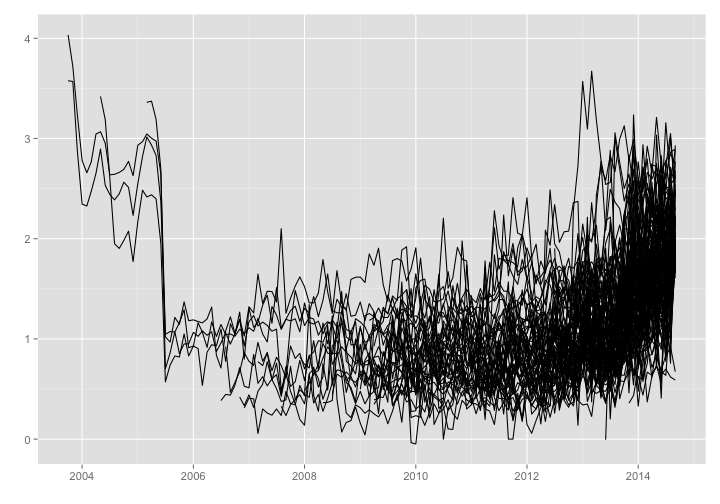
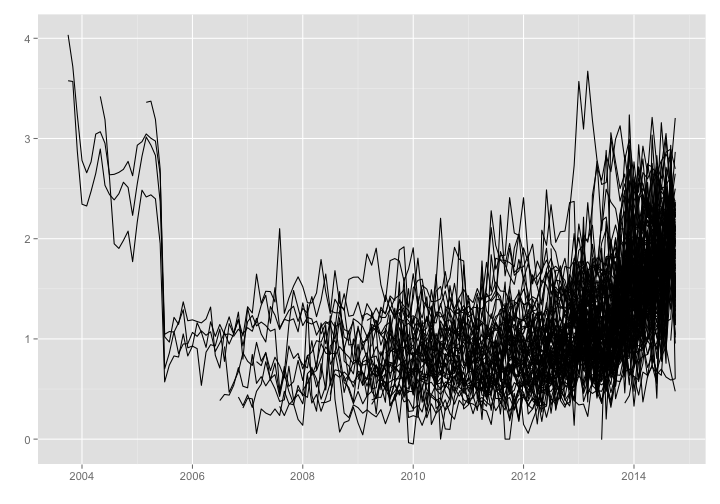
updated outliers workflow for today 2014-10-07

diff --git a/alerts/outliers_workflow.md b/alerts/outliers_workflow.md
@@ -1,6 +1,10 @@
 Workflow for detecting and exploring just outliers
 ========================================================
 
+### Date
+
+Compiled on 2014-10-07 18:13:34
+
 ### Setup
 
 > change directory to /data-quality/alerts/
@@ -54,21 +58,27 @@ Get data
 ```
 
 ```
-## Source: local data frame [138 x 6]
-## 
-##          id                      article   val          create_date
-## 1  11313611 10.1371/journal.pone.0051213 855.0 2014-09-27T08:08:33Z
-## 2  11313489 10.1371/journal.pone.0010894 783.0 2014-09-27T08:08:32Z
-## 3  11313569 10.1371/journal.pone.0046740 774.2 2014-09-27T08:08:32Z
-## 4  11347639 10.1371/journal.pone.0023786 586.0 2014-09-29T08:07:01Z
-## 5  11313595 10.1371/journal.pmed.1001493 570.7 2014-09-27T08:08:33Z
-## 6  11313573 10.1371/journal.pone.0090595 480.1 2014-09-27T08:08:32Z
-## 7  11313511 10.1371/journal.ppat.1003183 430.0 2014-09-27T08:08:32Z
-## 8  11313477 10.1371/journal.ppat.0020118 407.5 2014-09-27T08:08:32Z
-## 9  11313513 10.1371/journal.pbio.1000169 341.3 2014-09-27T08:08:32Z
-## 10 11313645 10.1371/journal.pone.0004276 333.0 2014-09-27T08:08:33Z
-## ..      ...                          ...   ...                  ...
+## Source: local data frame [143 x 6]
+##
+##          id                      article    val          create_date
+## 1  11313573 10.1371/journal.pone.0090595 1602.0 2014-09-27T08:08:32Z
+## 2  11313611 10.1371/journal.pone.0051213  855.0 2014-09-27T08:08:33Z
+## 3  11313489 10.1371/journal.pone.0010894  783.0 2014-09-27T08:08:32Z
+## 4  11347639 10.1371/journal.pone.0023786  586.0 2014-09-29T08:07:01Z
+## 5  11313547 10.1371/journal.pone.0068330  572.0 2014-09-27T08:08:32Z
+## 6  11313595 10.1371/journal.pmed.1001493  570.7 2014-09-27T08:08:33Z
+## 7  11313569 10.1371/journal.pone.0046740  498.0 2014-09-27T08:08:32Z
+## 8  11313511 10.1371/journal.ppat.1003183  430.0 2014-09-27T08:08:32Z
+## 9  11313477 10.1371/journal.ppat.0020118  407.5 2014-09-27T08:08:32Z
+## 10 11313513 10.1371/journal.pbio.1000169  341.3 2014-09-27T08:08:32Z
+## ..      ...                          ...    ...                  ...
 ## Variables not shown: source (chr), class (chr)
+```
+
+```r
+# remove bad data
+res <- res %>%
+  filter(!is.na(article))
 ```
 
 Extract top N articles, get DOIs
@@ -81,11 +91,11 @@ toinspect <- res[1:num_get,] %>% select(-class)
 ```
 
 ```
-##  [1] "10.1371/journal.pone.0051213" "10.1371/journal.pone.0010894"
-##  [3] "10.1371/journal.pone.0046740" "10.1371/journal.pone.0023786"
-##  [5] "10.1371/journal.pmed.1001493" "10.1371/journal.pone.0090595"
-##  [7] "10.1371/journal.ppat.1003183" "10.1371/journal.ppat.0020118"
-##  [9] "10.1371/journal.pbio.1000169" "10.1371/journal.pone.0004276"
+##  [1] "10.1371/journal.pone.0090595" "10.1371/journal.pone.0051213"
+##  [3] "10.1371/journal.pone.0010894" "10.1371/journal.pone.0023786"
+##  [5] "10.1371/journal.pone.0068330" "10.1371/journal.pmed.1001493"
+##  [7] "10.1371/journal.pone.0046740" "10.1371/journal.ppat.1003183"
+##  [9] "10.1371/journal.ppat.0020118" "10.1371/journal.pbio.1000169"
 ```
 
 Browse to an article
@@ -121,17 +131,32 @@ gg <- function(){
 }
 ```
 
+The distribution of html/pdf ratios
+
+
+```r
+res %>%
+  ggplot(aes(x=val)) + geom_histogram()
+```
+
+```
+## stat_bin: binwidth defaulted to range/30. Use 'binwidth = x' to adjust this.
+```
+
+![plot of chunk ratio_dist](figure/ratio_dist.png)
+
+
 Plot html and pdf views, just top 10
 
 
 ```r
 alldf %>%
   select(-year, -month, -id, -val, -source, -xml_views, -ratio) %>%
-  gather(metric, value, -article, -date, -create_date) %>% 
+  gather(metric, value, -article, -date, -create_date) %>%
   ggplot(aes(date, value, color=metric)) + gg()
 ```
 
-![plot of chunk unnamed-chunk-10](figure/unnamed-chunk-10.png) 
+![plot of chunk unnamed-chunk-10](figure/unnamed-chunk-10.png)
 
 The HTML/PDF ratio, just top 10
 
@@ -142,9 +167,9 @@ alldf %>%
   ggplot(aes(date, ratio)) + gg()
 ```
 
-![plot of chunk unnamed-chunk-11](figure/unnamed-chunk-11.png) 
+![plot of chunk unnamed-chunk-11](figure/unnamed-chunk-11.png)
 
-All ratio lines together, all 138
+All ratio lines together, all 142
 
 
 ```r
@@ -156,19 +181,19 @@ All ratio lines together, all 138
 ```
 
 ```
-## Source: local data frame [5,173 x 13]
-## 
+## Source: local data frame [5,395 x 13]
+##
 ##                         article year month pdf_views html_views xml_views
-## 1  10.1371/journal.pone.0095298 2014     4       563      27151        12
-## 2  10.1371/journal.pone.0095298 2014     5       235      11094         3
-## 3  10.1371/journal.pone.0095298 2014     6        58       3253         3
-## 4  10.1371/journal.pone.0095298 2014     7        28       1830         1
-## 5  10.1371/journal.pone.0095298 2014     8        40       4479         2
-## 6  10.1371/journal.pone.0095298 2014     9        17       1772         1
-## 7  10.1371/journal.pone.0094215 2014     4      1119      36758        34
-## 8  10.1371/journal.pone.0094215 2014     5       269       5058         5
-## 9  10.1371/journal.pone.0094215 2014     6        65       2885         0
-## 10 10.1371/journal.pone.0094215 2014     7        33       1637         1
+## 1  10.1371/journal.pone.0106930 2014     9        97       4105        15
+## 2  10.1371/journal.pone.0106930 2014    10        16       1044         0
+## 3  10.1371/journal.pone.0097506 2014     5        70      30640         8
+## 4  10.1371/journal.pone.0097506 2014     6       319      21380        13
+## 5  10.1371/journal.pone.0097506 2014     7        71       7984         1
+## 6  10.1371/journal.pone.0097506 2014     8        29       1699         2
+## 7  10.1371/journal.pone.0097506 2014     9        32        758         1
+## 8  10.1371/journal.pone.0097506 2014    10         9        993         0
+## 9  10.1371/journal.pone.0094215 2014     4      1119      36758        34
+## 10 10.1371/journal.pone.0094215 2014     5       269       5058         5
 ## ..                          ...  ...   ...       ...        ...       ...
 ## Variables not shown: id (dbl), val (dbl), create_date (date), source
 ##   (chr), class (chr), date (date), ratio (dbl)
@@ -177,13 +202,13 @@ All ratio lines together, all 138
 ```r
 alldf_alldois %>%
   select(article, date, create_date, ratio) %>%
-  ggplot(aes(date, log10(ratio), group=article)) + 
+  ggplot(aes(date, log10(ratio), group=article)) +
     geom_line() +
     labs(y="", x="") +
     theme_grey(base_size = 14)
 ```
 
-![plot of chunk unnamed-chunk-12](figure/unnamed-chunk-12.png) 
+![plot of chunk unnamed-chunk-12](figure/unnamed-chunk-12.png)
 
 Dig in to particular DOIs. This is rather free-form, depends on the metric of interest.
 
@@ -198,10 +223,10 @@ Are the high value offender DOIs associated with other alm metrics, like social 
 
 
 ```r
-dat <- alm_ids(res$article[1:50], source = c("facebook","twitter","mendeley","reddit","scopus","wikipedia"))
+dat <- alm_ids(res$article, source = c("facebook","twitter","mendeley","reddit","scopus","wikipedia"))
 datdf <- rbind_all(dat$data)
-datdf$article <- rep(res$article[1:50], each = 6)
-datdf <- inner_join(datdf, res %>% filter(article %in% res$article[1:20]) %>% select(article, val) )
+datdf$article <- rep(res$article, each = 6)
+datdf <- inner_join(datdf, res %>% filter(article %in% res$article) %>% select(article, val) )
 ```
 
 ```
@@ -209,23 +234,27 @@ datdf <- inner_join(datdf, res %>% filter(article %in% res$article[1:20]) %>% se
 ```
 
 ```r
-datdf %>% 
-  ggplot(aes(x=val, y=total)) + 
+datdf %>%
+  ggplot(aes(x=val, y=total)) +
     geom_point(aes(size=2)) +
     facet_wrap(~ .id, scales='free') +
     labs(y="", x="") +
     theme_grey(base_size = 18) +
     theme(legend.position="none")
-```
+```x
 
-![plot of chunk unnamed-chunk-14](figure/unnamed-chunk-14.png) 
+![plot of chunk unnamed-chunk-14](figure/unnamed-chunk-14.png)
 
 
 Detect spikes/patterns in signals through time
 
 
 ```r
-'....'
+'not done yet...'
+```
+
+```
+## [1] "not done yet..."
 ```
 
 > based on the above work, identify which articles are deserving of further inspection/flagging - perhaps need to look at log files for IP addresses, etc.
